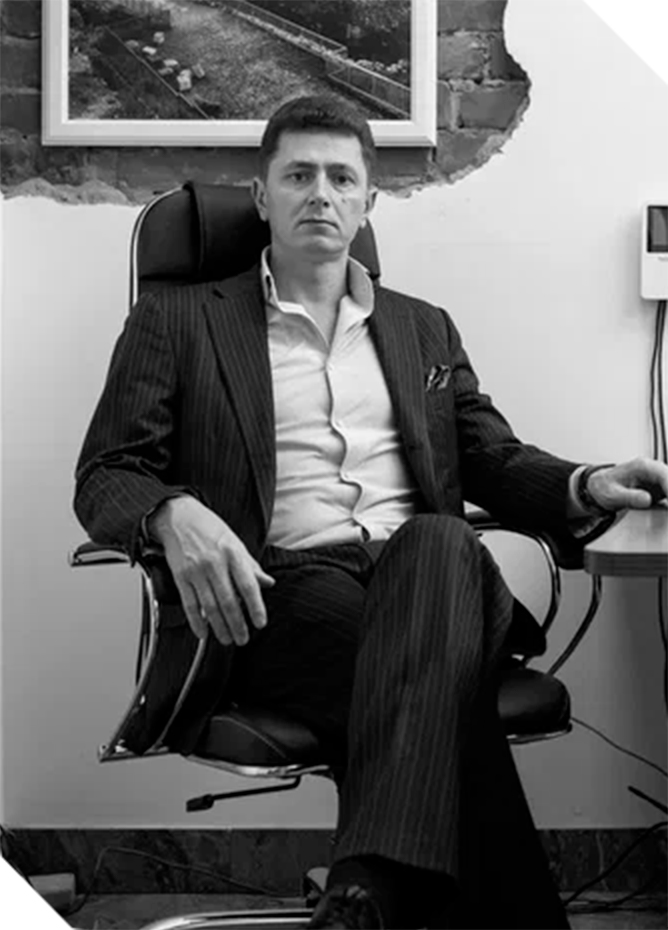
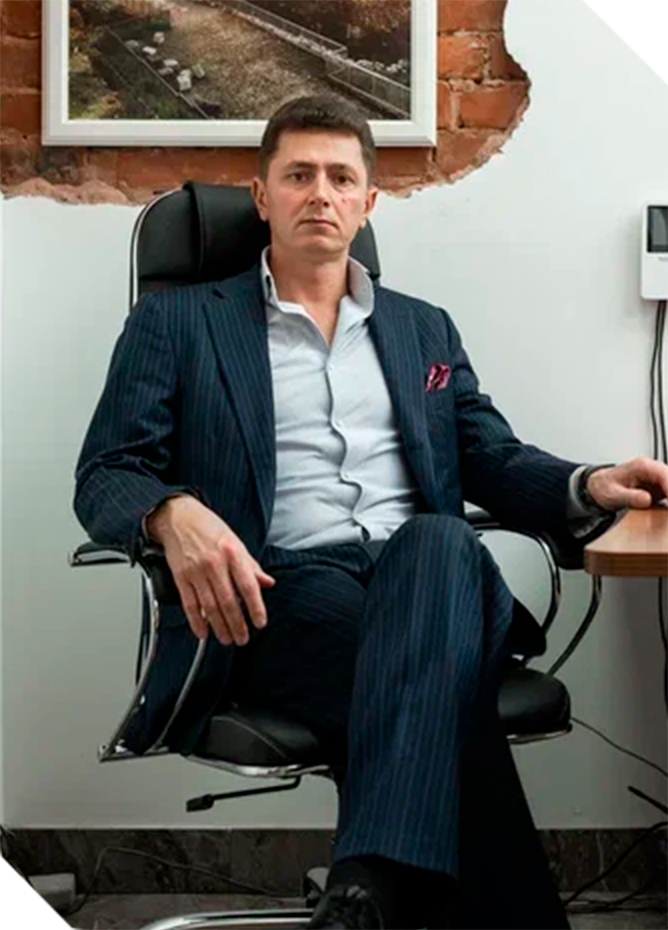
grayscale effect added to images

diff --git a/source/scss/components/_support.scss b/source/scss/components/_support.scss
@@ -58,7 +58,7 @@
       display: flex;
       align-items: flex-end;
       padding: clamp(24px, 2.5vw, 40px);
-
+      overflow: hidden;
       &::after {
         @include pseudo;
         width: 100%;
@@ -91,13 +91,13 @@
       top: 0;
       left: 0;
       clip-path: var(--shape);
-
-      transition: transform 400ms ease;
-      will-change: transform;
+      filter: grayscale(1);
+      transition: all 400ms ease;
+      will-change: transform, filter;
     }
     @include hover {
       .support-col__image {
-        transform: scale(1.125);
+        transform: scale(1.125);filter: grayscale(0);
       }
     }
   }

diff --git a/source/scss/components/_services.scss b/source/scss/components/_services.scss
@@ -47,6 +47,7 @@
       @include hover {
         .services-cols__image img {
           transform: scale(1.125);
+          filter: grayscale(0);
         }
       }
     }
@@ -62,8 +63,9 @@
         height: 100%;
         top: 0;
         left: 0;
-        transition: transform 400ms ease;
-        will-change: transform;
+        filter: grayscale(1);
+        transition: all 400ms ease;
+        will-change: transform, filter;
       }
     }
   }
